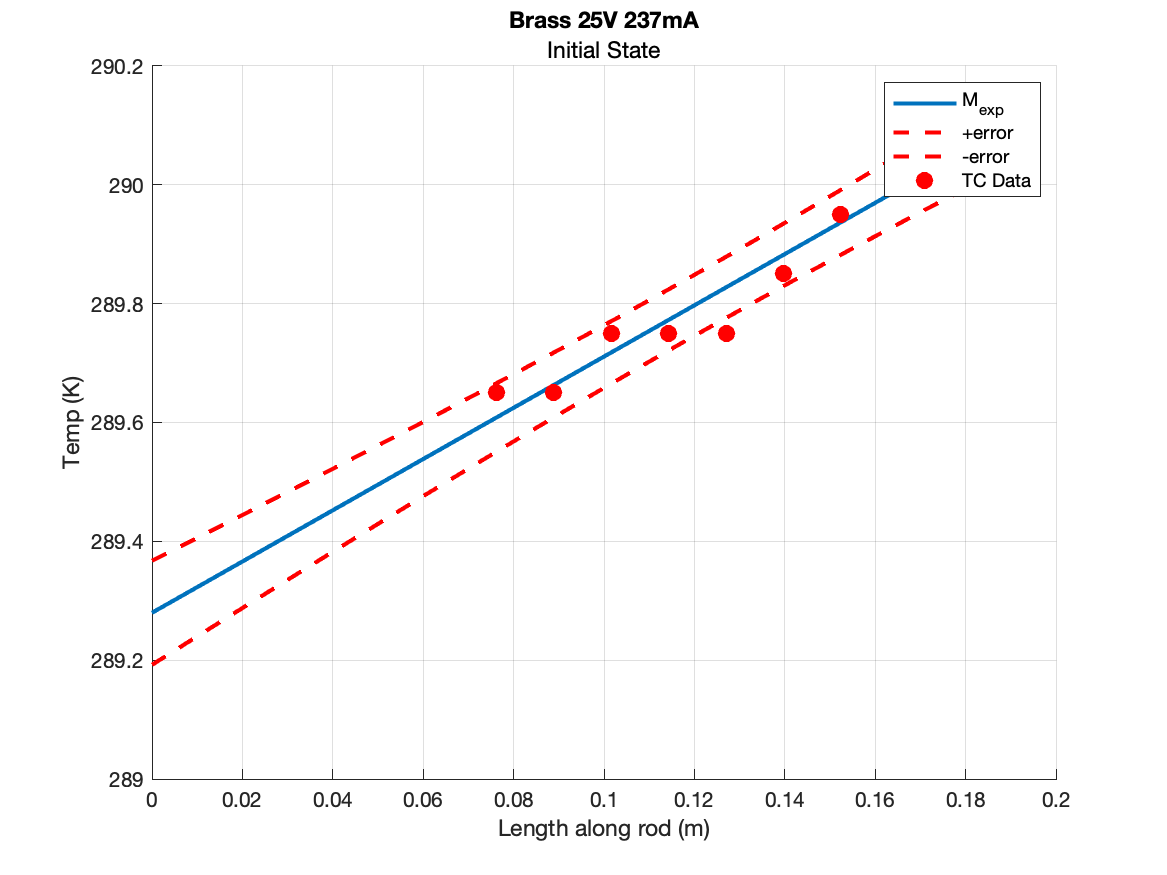
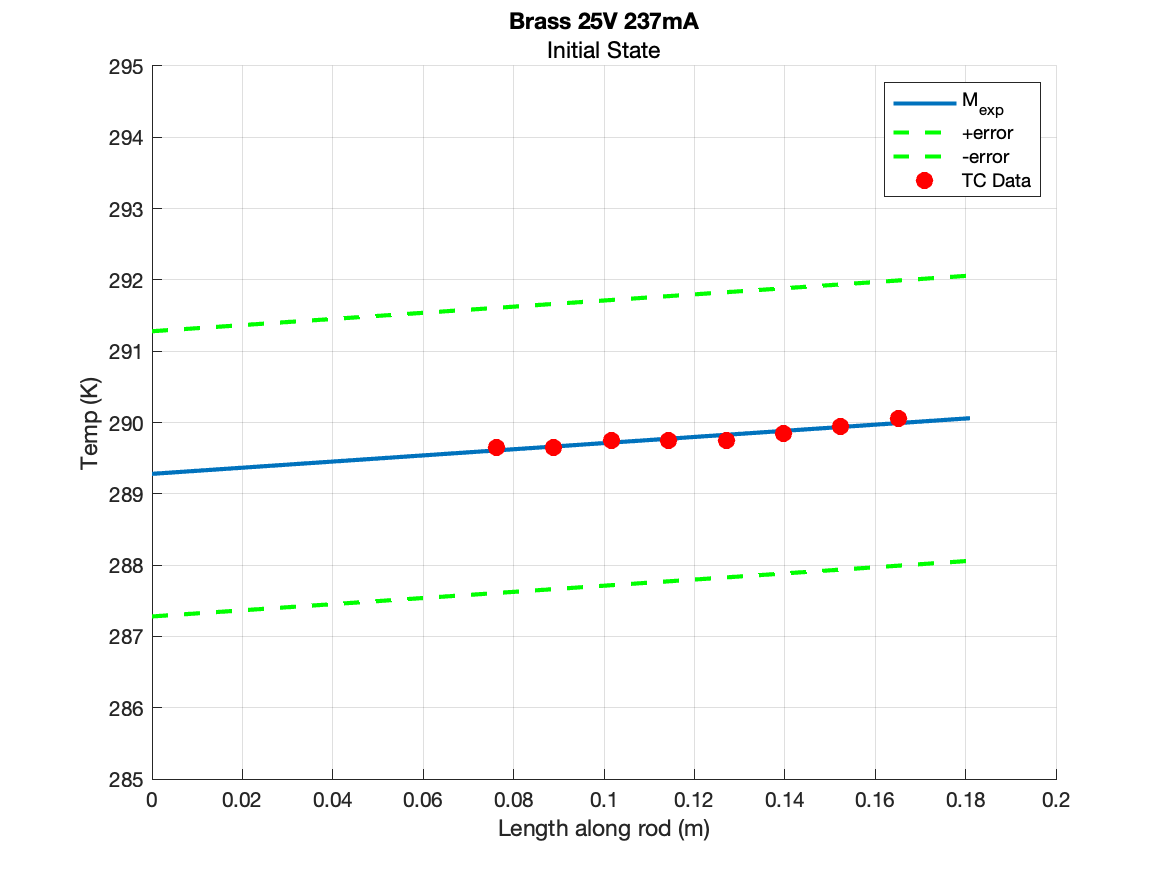
Changes made to plot after talking to TA

diff --git a/filereadin.m b/filereadin.m
@@ -71,8 +71,9 @@ for i=1:5
         grid("on")
         %plotting with H_exp slope
         plot(l_steady,y1,LineWidth=2)
-        plot(l_steady,y1+delta1,'r--',LineWidth=2)
-        plot(l_steady,y1-delta1,'r--',LineWidth=2)
+        plot(l_steady,y1+2,'g--',LineWidth=2)
+        plot(l_steady,y1-2,'g--',LineWidth=2)
+        ylim([250,380])
         %plot with H_an slope
         plot(l_steady,(H_an(i).*l_steady)+T0(i),'k',LineWidth=2)
         %marking TC locations
@@ -110,13 +111,13 @@ for i=1:5
         hold on;
         %plotting with M_exp slope
         plot(l_init,y2,LineWidth=2)
-        plot(l_init,y2+delta2,'r--',LineWidth=2)
-        plot(l_init,y2-delta2,'r--',LineWidth=2)
+        plot(l_init,y2+2,'g--',LineWidth=2)
+        plot(l_init,y2-2,'g--',LineWidth=2)
         %marking TC locations
         plot(tc_loc, temp_init, 'o', 'MarkerSize', 8, 'MarkerFaceColor', 'r', 'MarkerEdgeColor', 'r'); 
         xlabel("Length along rod (m)")
         ylabel("Temp (K)")
-        ylim([288,292])
+        ylim([285,295])
         legend('M_{exp}','+error','-error','TC Data')
         title('Aluminum 25V 240mA')
         subtitle('Initial State')
@@ -156,8 +157,9 @@ for i=1:5
         grid("on")
         %plotting with H_exp slope
         plot(l_steady,y1,LineWidth=2)
-        plot(l_steady,y1+delta1,'r--',LineWidth=2)
-        plot(l_steady,y1-delta1,'r--',LineWidth=2)
+        plot(l_steady,y1+2,'g--',LineWidth=2)
+        plot(l_steady,y1-2,'g--',LineWidth=2)
+        ylim([250,380])
         %plot with H_an slope
         plot(l_steady,(H_an(i).*l_steady)+T0(i),'k',LineWidth=2)
         %marking TC locations
@@ -195,13 +197,13 @@ for i=1:5
         hold on;
         %plotting with M_exp slope
         plot(l_init,y2,LineWidth=2)
-        plot(l_init,y2+delta2,'r--',LineWidth=2)
-        plot(l_init,y2-delta2,'r--',LineWidth=2)
+        plot(l_init,y2+2,'g--',LineWidth=2)
+        plot(l_init,y2-2,'g--',LineWidth=2)
         %marking TC locations
         plot(tc_loc, temp_init, 'o', 'MarkerSize', 8, 'MarkerFaceColor', 'r', 'MarkerEdgeColor', 'r'); 
         xlabel("Length along rod (m)")
         ylabel("Temp (K)")
-        ylim([288,292])
+        ylim([285,295])
         legend('M_{exp}','+error','-error','TC Data')
         title('Aluminum 30V 290mA')
         subtitle('Initial State')
@@ -241,8 +243,9 @@ for i=1:5
         grid("on")
         %plotting with H_exp slope
         plot(l_steady,y1,LineWidth=2)
-        plot(l_steady,y1+delta1,'r--',LineWidth=2)
-        plot(l_steady,y1-delta1,'r--',LineWidth=2)
+        plot(l_steady,y1+2,'g--',LineWidth=2)
+        plot(l_steady,y1-2,'g--',LineWidth=2)
+        ylim([250,380])
         %plot with H_an slope
         plot(l_steady,(H_an(i).*l_steady)+T0(i),'k',LineWidth=2)
         %marking TC locations
@@ -280,8 +283,9 @@ for i=1:5
         hold on;
         %plotting with M_exp slope
         plot(l_init,y2,LineWidth=2)
-        plot(l_init,y2+delta2,'r--',LineWidth=2)
-        plot(l_init,y2-delta2,'r--',LineWidth=2)
+        plot(l_init,y2+2,'g--',LineWidth=2)
+        plot(l_init,y2-2,'g--',LineWidth=2)
+        ylim([285,295])
         %marking TC locations
         plot(tc_loc, temp_init, 'o', 'MarkerSize', 8, 'MarkerFaceColor', 'r', 'MarkerEdgeColor', 'r'); 
         xlabel("Length along rod (m)")
@@ -325,8 +329,9 @@ for i=1:5
         grid("on")
         %plotting with H_exp slope
         plot(l_steady,y1,LineWidth=2)
-        plot(l_steady,y1+delta1,'r--',LineWidth=2)
-        plot(l_steady,y1-delta1,'r--',LineWidth=2)
+        plot(l_steady,y1+2,'g--',LineWidth=2)
+        plot(l_steady,y1-2,'g--',LineWidth=2)
+        ylim([250,380])
         %plot with H_an slope
         plot(l_steady,(H_an(i).*l_steady)+T0(i),'k',LineWidth=2)
         %marking TC locations
@@ -364,8 +369,9 @@ for i=1:5
         hold on;
         %plotting with M_exp slope
         plot(l_init,y2,LineWidth=2)
-        plot(l_init,y2+delta2,'r--',LineWidth=2)
-        plot(l_init,y2-delta2,'r--',LineWidth=2)
+        plot(l_init,y2+2,'g--',LineWidth=2)
+        plot(l_init,y2-2,'g--',LineWidth=2)
+        ylim([285,295])
         %marking TC locations
         plot(tc_loc, temp_init, 'o', 'MarkerSize', 8, 'MarkerFaceColor', 'r', 'MarkerEdgeColor', 'r'); 
         xlabel("Length along rod (m)")
@@ -409,8 +415,9 @@ for i=1:5
         grid("on")
         %plotting with H_exp slope
         plot(l_steady,y1,LineWidth=2)
-        plot(l_steady,y1+delta1,'r--',LineWidth=2)
-        plot(l_steady,y1-delta1,'r--',LineWidth=2)
+        plot(l_steady,y1+2,'g--',LineWidth=2)
+        plot(l_steady,y1-2,'g--',LineWidth=2)
+        ylim([250,380])
         %plot with H_an slope
         plot(l_steady,(H_an(i).*l_steady)+T0(i),'k',LineWidth=2)
         %marking TC locations
@@ -448,8 +455,9 @@ for i=1:5
         hold on;
         %plotting with M_exp slope
         plot(l_init,y2,LineWidth=2)
-        plot(l_init,y2+delta2,'r--',LineWidth=2)
-        plot(l_init,y2-delta2,'r--',LineWidth=2)
+        plot(l_init,y2+2,'g--',LineWidth=2)
+        plot(l_init,y2-2,'g--',LineWidth=2)
+        ylim([285,295])
         %marking TC locations
         plot(tc_loc, temp_init, 'o', 'MarkerSize', 8, 'MarkerFaceColor', 'r', 'MarkerEdgeColor', 'r'); 
         xlabel("Length along rod (m)")
